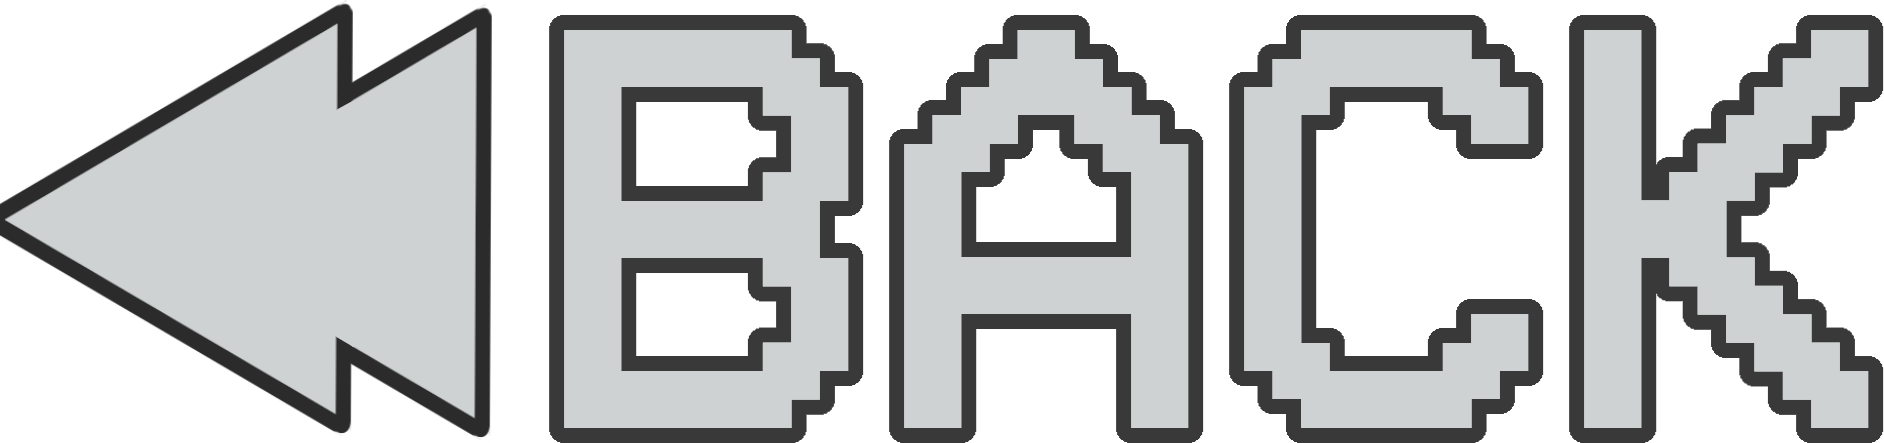
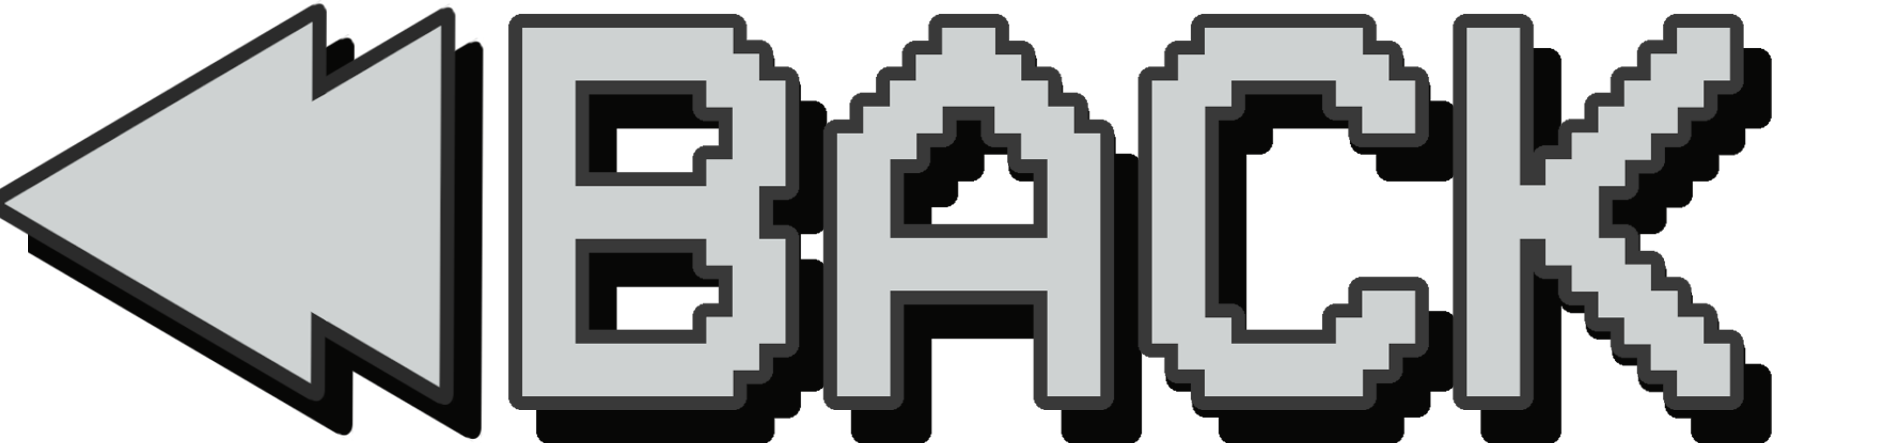
update back button

diff --git a/_layouts/post.html b/_layouts/post.html
@@ -4,19 +4,19 @@
 		{% include head.html %}
 	</head>
 	<body class="zine-body">
-		{% include back-blog.html %}
-		
+		{% include back.html %}
+
 		<div class="magazine-layout">
 			{% if page.title and page.title != "" %}
 			<div class="magazine-header">
 				<h1 class="magazine-title">{{ page.title }}</h1>
 			</div>
 			{% endif %}
-			
+
 			<div class="magazine-content">
 				{{ content }}
 			</div>
-			
+
 			<div class="scroll-to-top-container">
 				<a href="#" class="scroll-to-top" onclick="window.scrollTo({top: 0, behavior: 'smooth'}); return false;">↑ Topo</a>
 			</div>

diff --git a/_includes/back.html b/_includes/back.html
@@ -1,3 +1,5 @@
-<a href="/">
-	<img src="/images/back.png" class="back-button"/>
+<a onClick="history.back();" style="cursor:pointer">
+	<img src="/images/back.png" class="back-button"
+		onmouseover="this.src='/images/back-hover.png'"
+		onmouseout="this.src='/images/back.png'"/>
 </a>